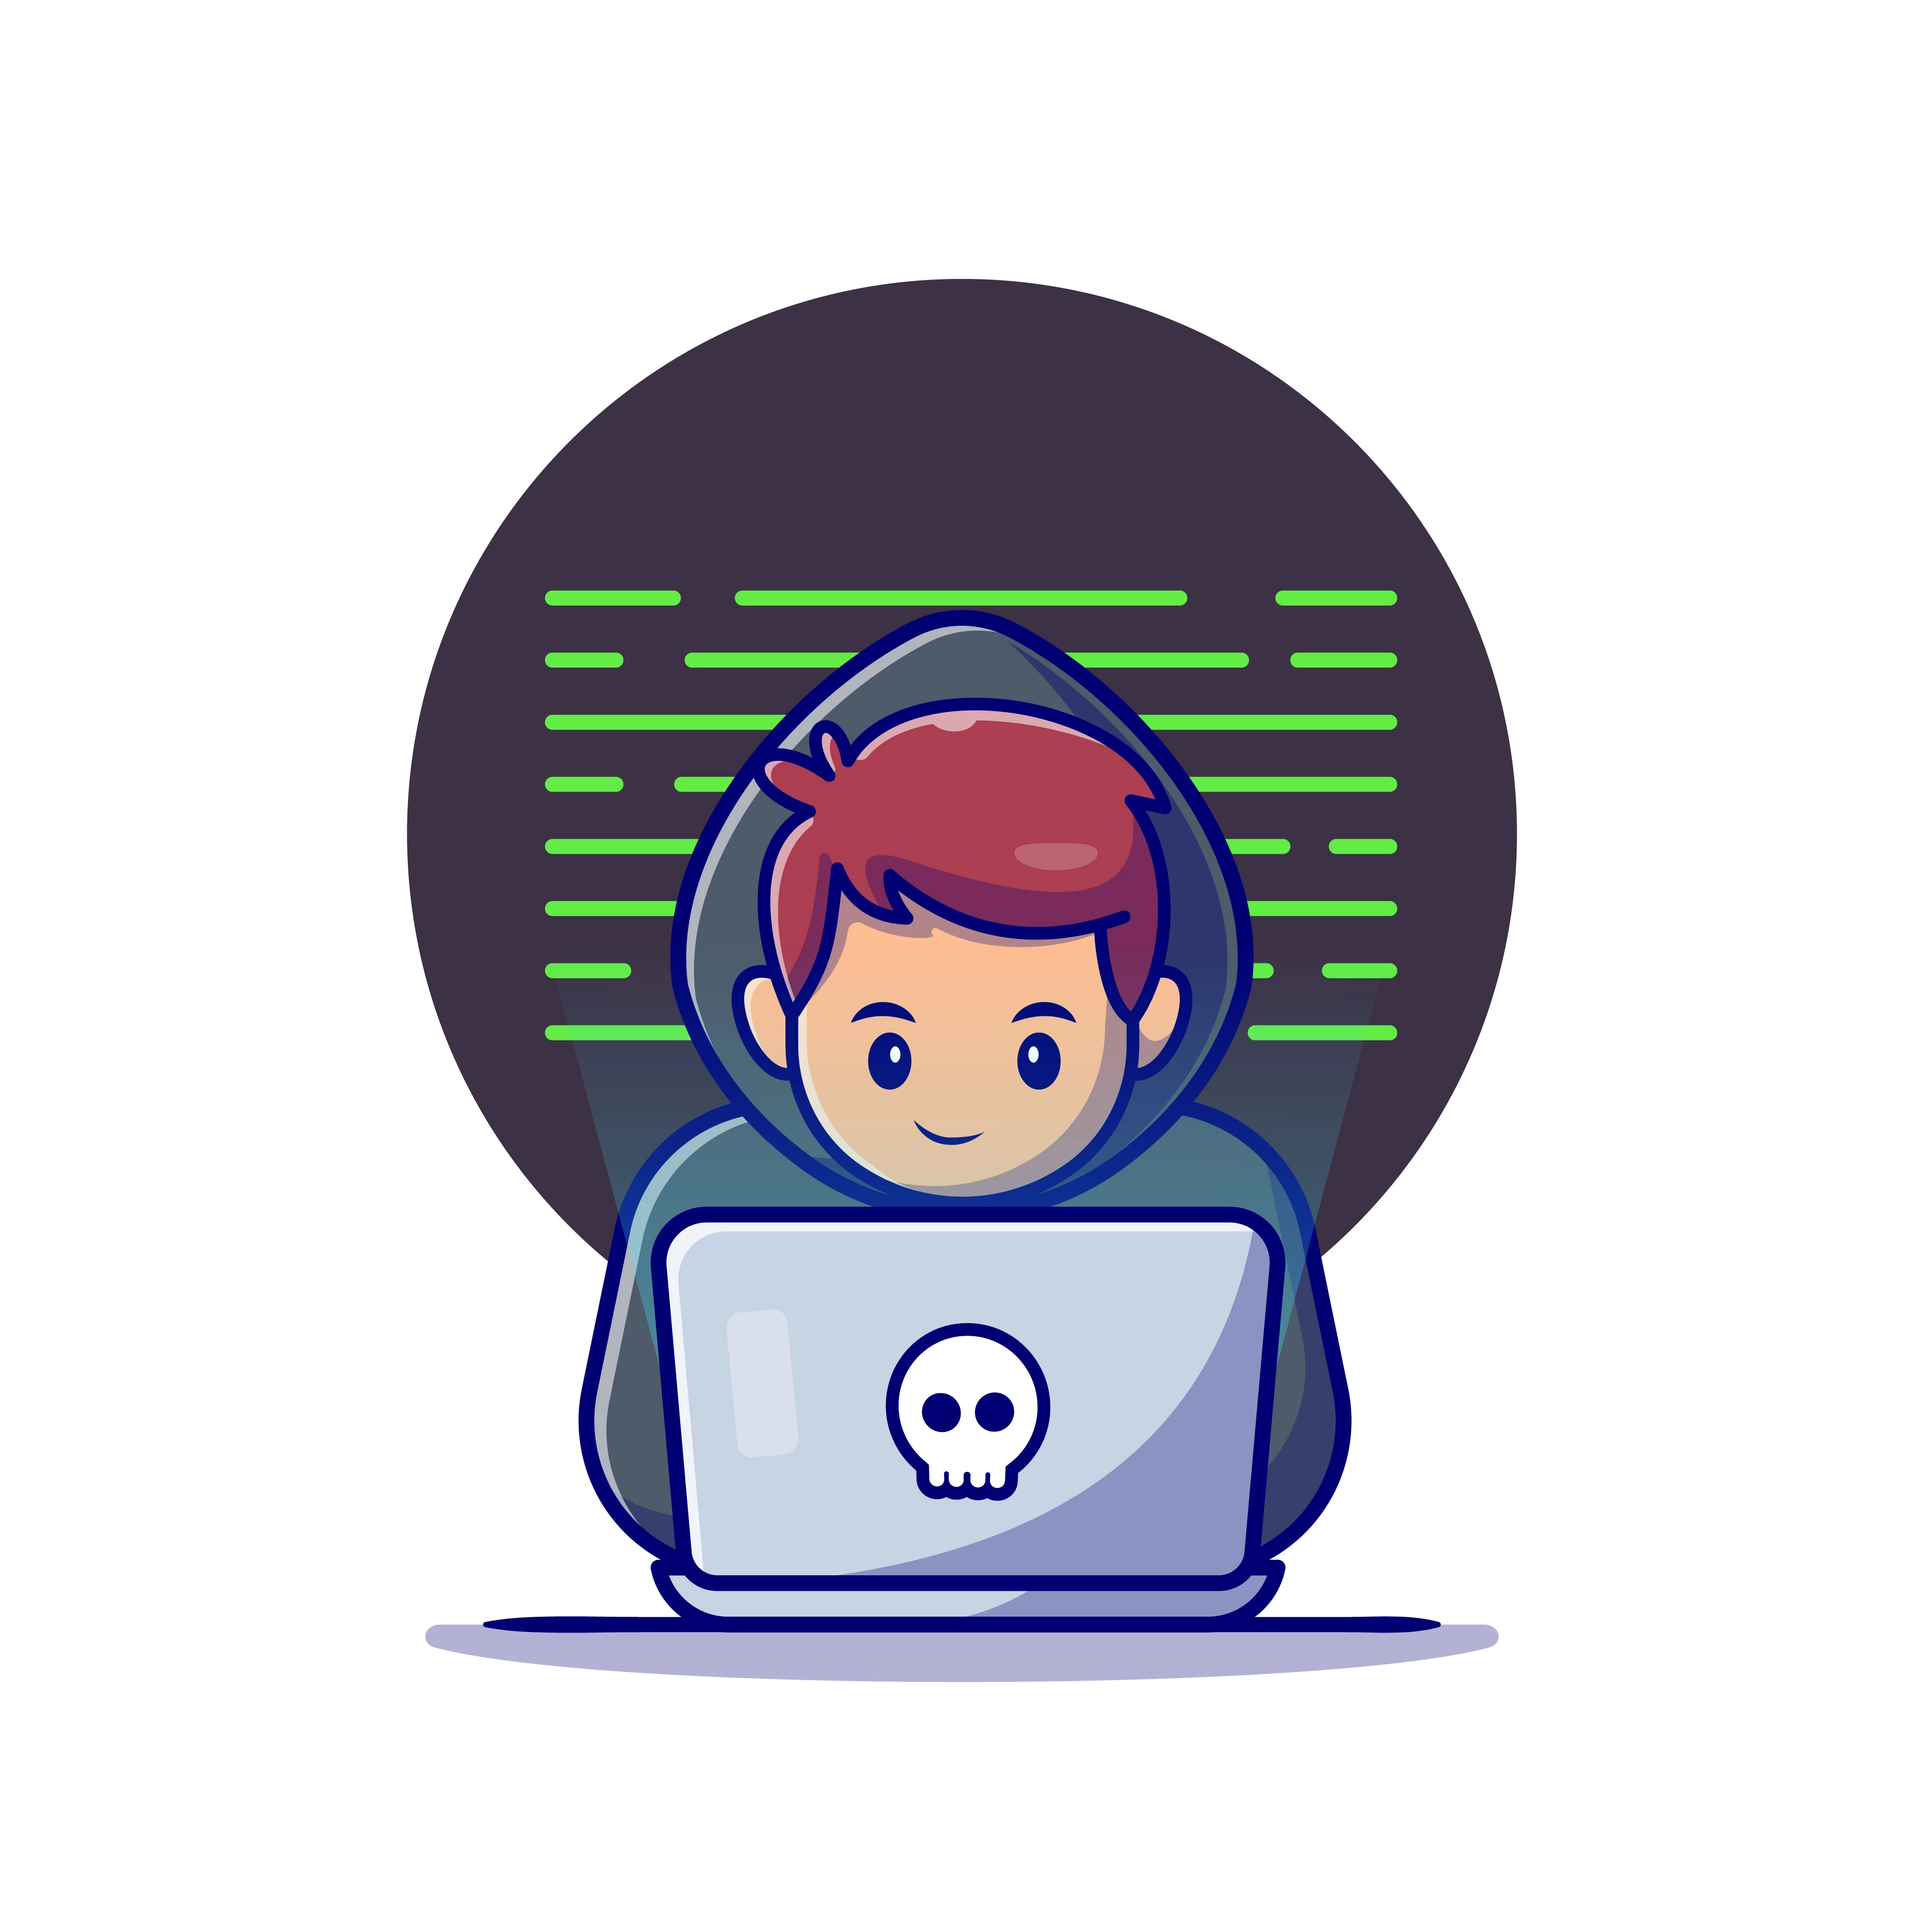
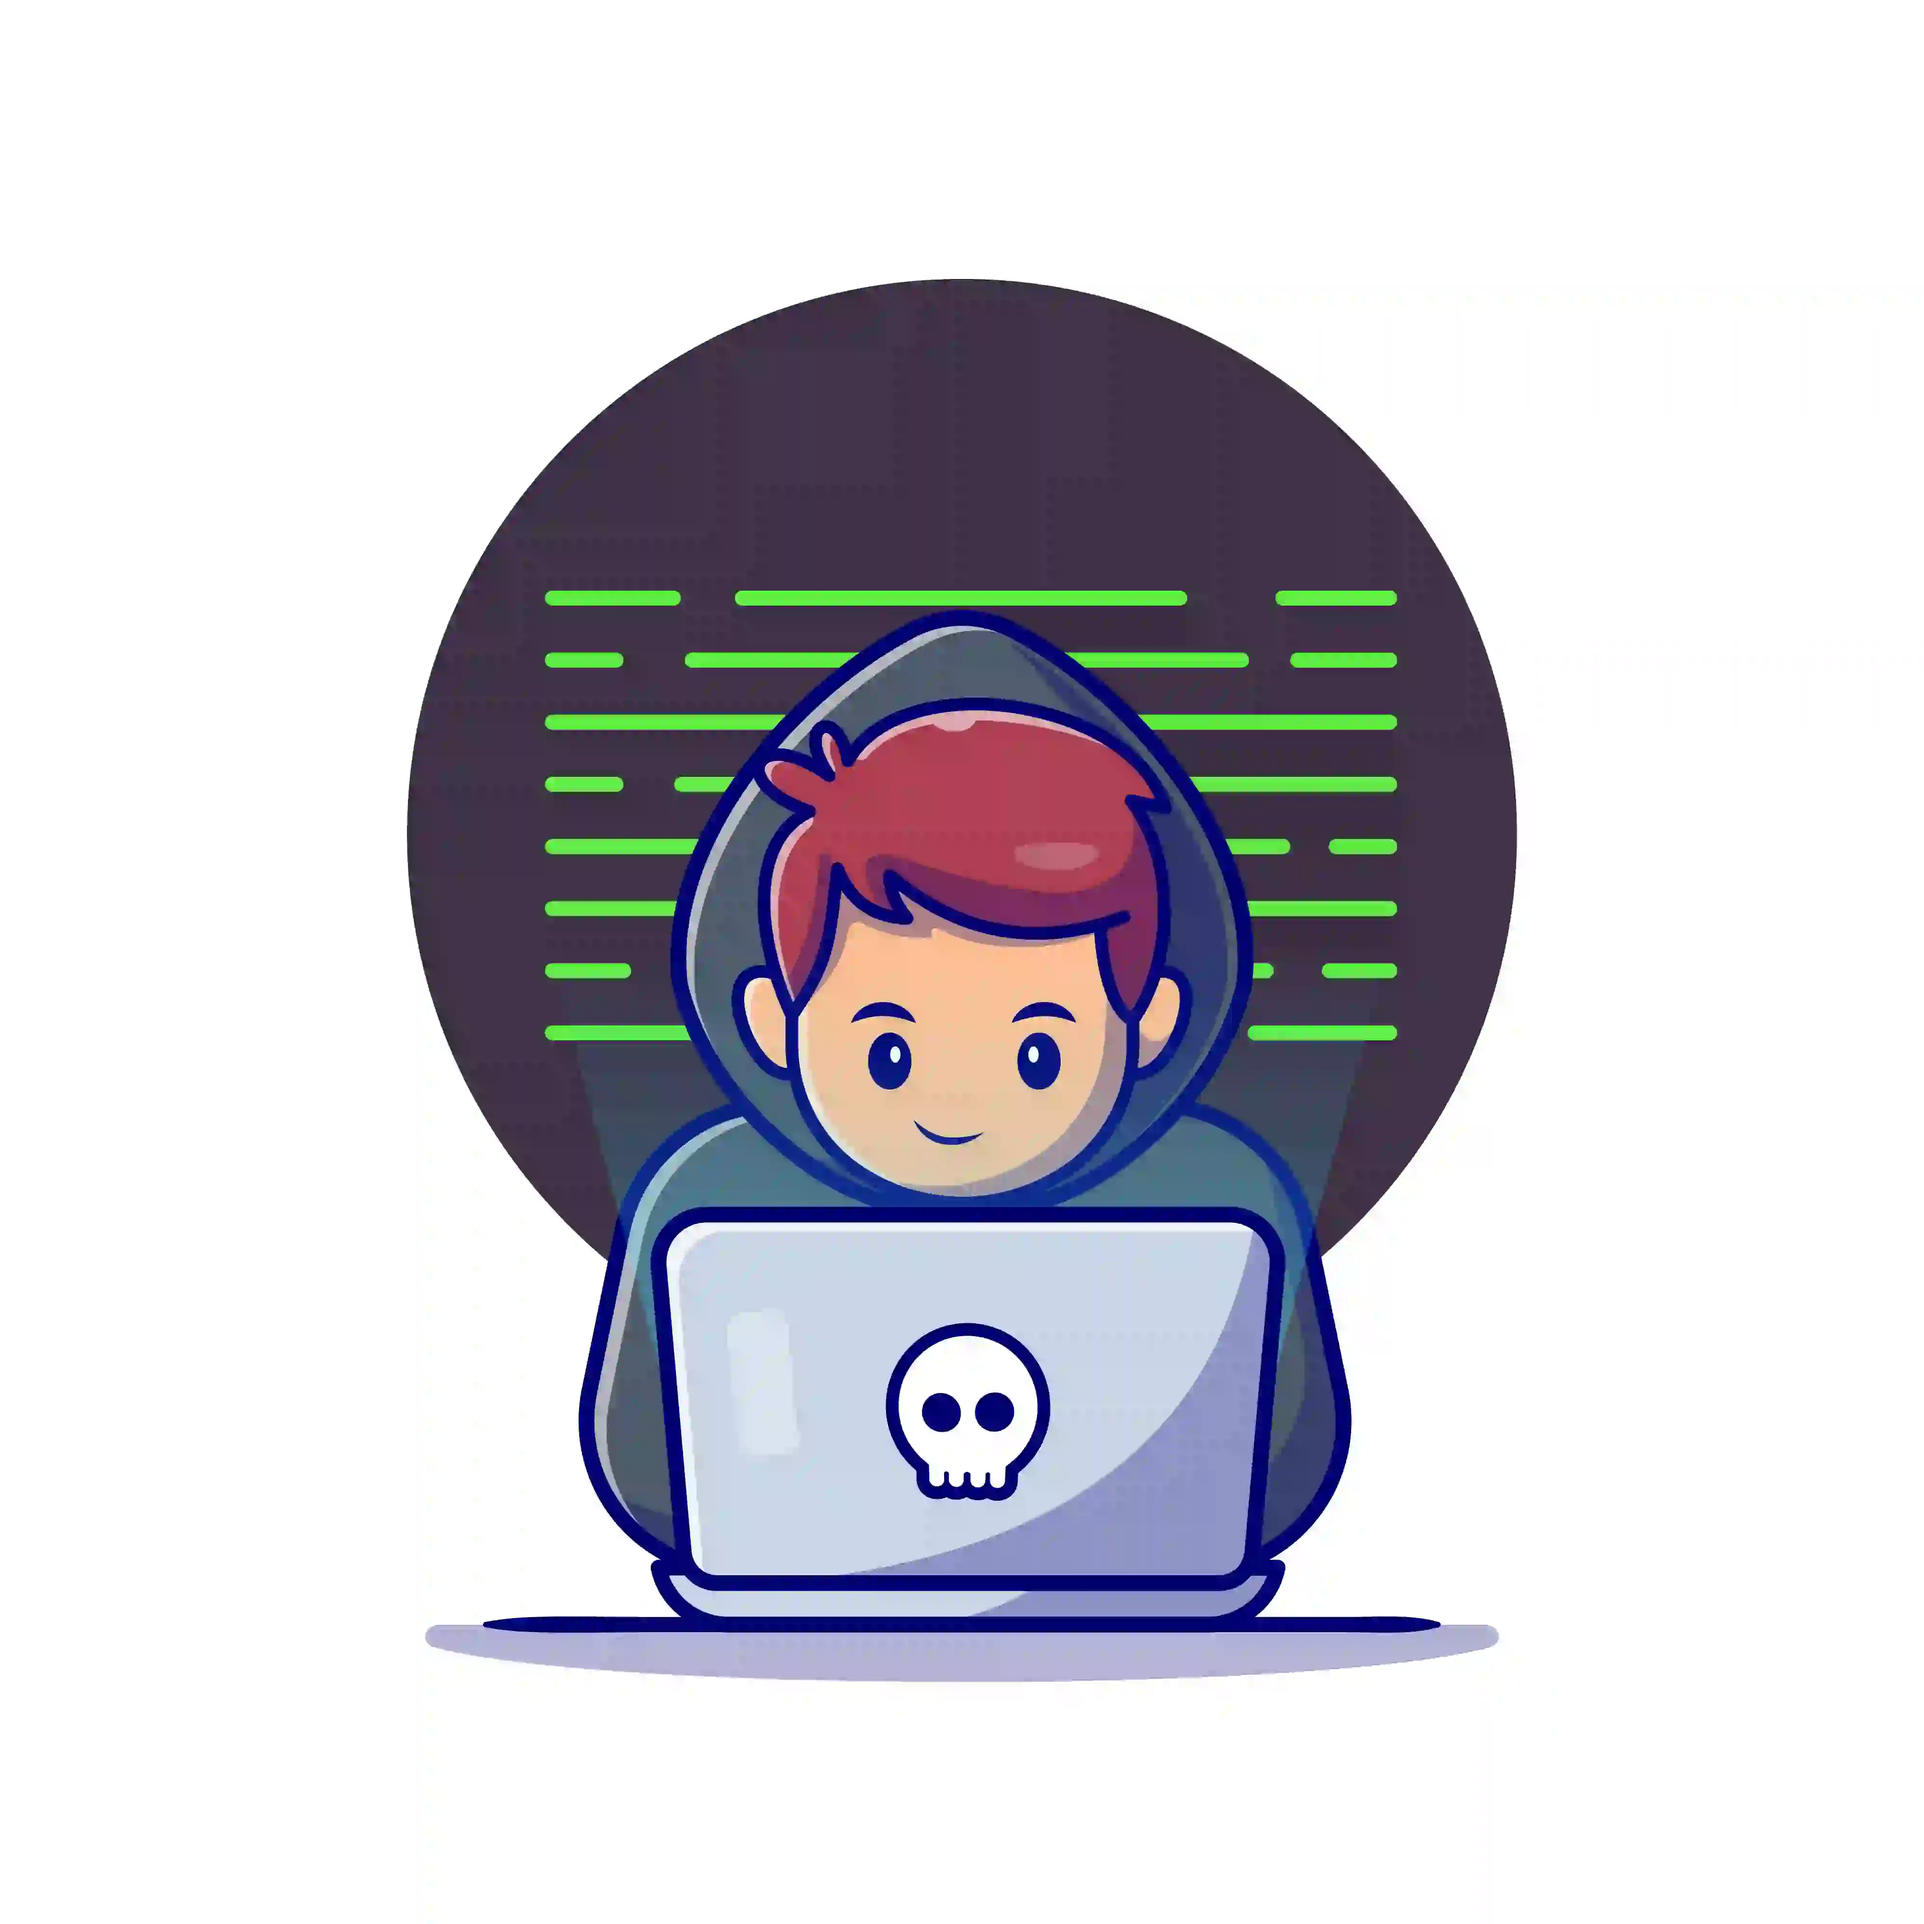
fix perf

diff --git a/index.html b/index.html
@@ -6,7 +6,7 @@
     <meta name="viewport" content="width=device-width, initial-scale=1.0">
     
     <link rel="preconnect" href="https://fonts.gstatic.com"> 
-    <link href="https://fonts.googleapis.com/css2?family=JetBrains+Mono&text=Will be available soon..." rel="stylesheet">
+    <link href="https://fonts.googleapis.com/css2?family=JetBrains+Mono&text=Will be avaible soon..." rel="stylesheet">
     
     <link rel="stylesheet" href="normalize.css">
     <link rel="stylesheet" href="style.css">
@@ -21,7 +21,7 @@
         <div class="img-container">
             <picture>
                 <source class="programmer" srcset="assets/programmer.webp">
-                <img class="programmer" src="assets/programmer.jpg">
+                <img class="programmer" src="assets/programmer.jpg" alt="programmer">
             </picture>
         </div>
     </div>

diff --git a/style.css b/style.css
@@ -13,7 +13,7 @@
 }
 
 .soon-wrapper .img-container {
-  width: 35%;
+  width: 40%;
 }
 
 @media screen and (max-width: 880px) {
@@ -26,6 +26,5 @@
 }
 
 .soon-wrapper .img-container .programmer {
-  max-width: 100%;
-  height: auto;
+  width: 100%;
 }
